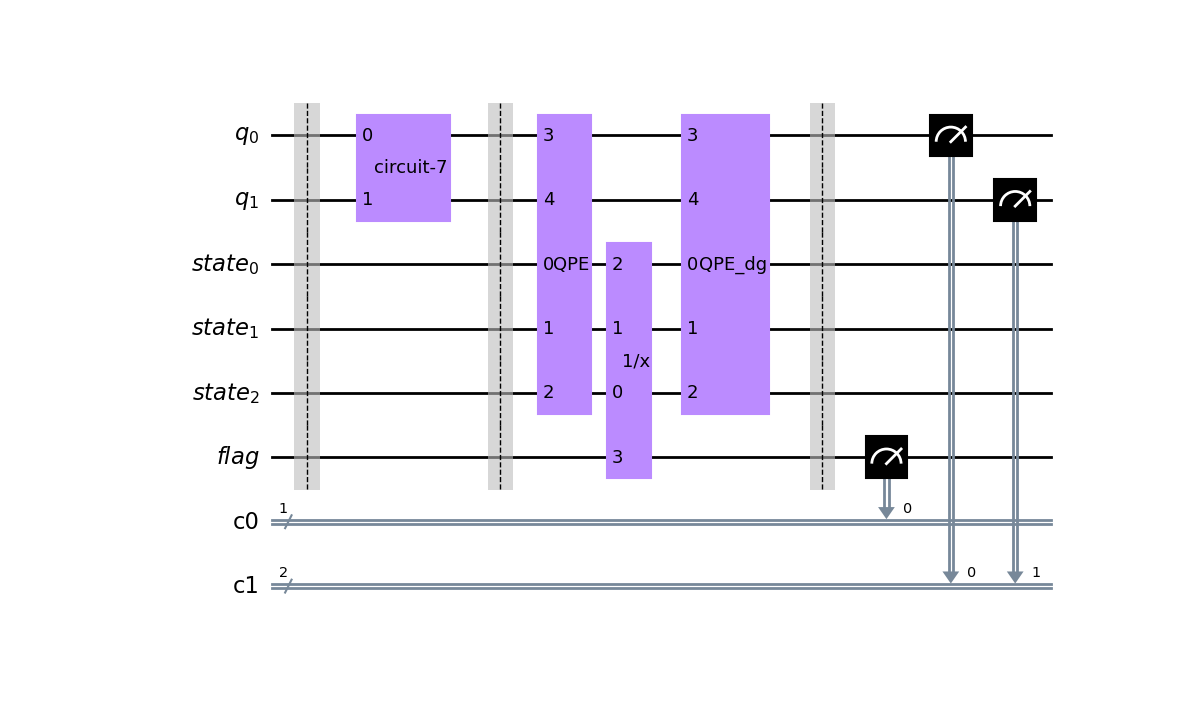
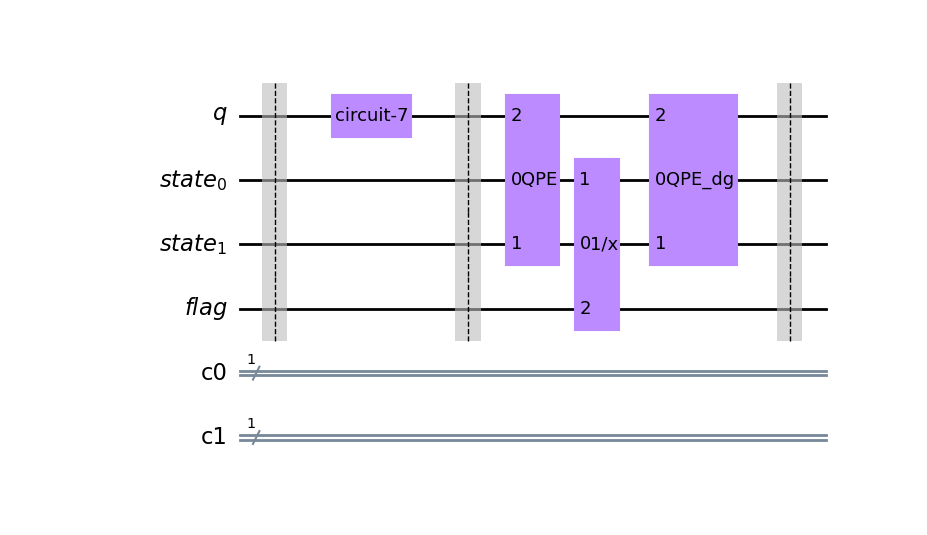
minor patch

Changed region(s): [[0.151, 0.1495, 0.9061, 0.8673]]

diff --git a/solver.py b/solver.py
@@ -9,15 +9,15 @@ from value_setter import value_setter
 
 def HHL_my(A, b, wrap = True, state_vector = True):
     #기초 회로 구성, 입력값: A(행렬), b(벡터), nl(사용하는 qubit의 수, 높을 수록 정확도가 높아짐), delta(evolution time t와 reciprocal 과정에서의 scaling을 결정), wrap(회로를 합쳐서 볼지 결정)
-    nl, evolution_time, delta = value_setter(A)
-    qc = circuit(A, b, nl, evolution_time, delta, wrap = wrap, state_vector = state_vector)
+    nl, evolution_time, delta, neg_vals = value_setter(A)
+    qc = circuit(A, b, nl, evolution_time, delta, neg_vals, wrap = wrap, state_vector = state_vector)
     if state_vector:
         naive_sv = Statevector(qc).data
         #qubit수를 확인
         num_qubit = qc.num_qubits
         #상태 벡터에서 필요한 상태만을 골라서 저장함
         #print(naive_sv)
-        naive_full_vector = np.array([naive_sv[2**(num_qubit-1)], naive_sv[2**(num_qubit-1)+1], naive_sv[2**(num_qubit-1)+2], naive_sv[2**(num_qubit-1)+3]])
+        naive_full_vector = np.array([naive_sv[2**(num_qubit-1)+i] for i in range(len(b))])
         #실수 부분만 취함
         naive_full_vector = np.real(naive_full_vector)
         #얻어진 벡터를 normalize하여 반환
@@ -52,7 +52,7 @@ def HHL_qiskit(A,b):
     #qubit수를 확인
     num_qubit = solution.state.num_qubits
     #상태 벡터에서 필요한 상태만을 골라서 저장함
-    naive_full_vector = np.array([naive_sv[2**(num_qubit-1)], naive_sv[2**(num_qubit-1)+1], naive_sv[2**(num_qubit-1)+2], naive_sv[2**(num_qubit-1)+3]])
+    naive_full_vector = np.array([naive_sv[2**(num_qubit-1)+i] for i in range(len(b))])
     #실수 부분만 취함
     naive_full_vector = np.real(naive_full_vector)
     #얻어진 벡터를 normalize하여 반환

diff --git a/circuit.py b/circuit.py
@@ -3,13 +3,13 @@ from qiskit import QuantumCircuit, QuantumRegister, ClassicalRegister
 from QPE import QPE, qpe_qiskit
 from rotation import rotation, Reciprocal
 from initialize import make_b_state
-def circuit(A, b, nl, evolution_time, delta, wrap = True, state_vector = True):
+def circuit(A, b, nl, evolution_time, delta, neg_vals, wrap = True, state_vector = True):
     #flag qubit의 갯수, 상태 준비가 확률적인 경우 늘릴 필요가 있음
     nf = 1
     #evolution time 정의, eigenvalue에 따라서 다르게 정의할 필요가 있음
     t = evolution_time
     #eigenvalue가 음수일 경우 -를 포함하는 qubit이 필요하고 이것을 boolean으로 표현
-    neg_vals = True
+    neg_vals = neg_vals
     #b벡터를 normalize된 양자 상태로 바꾸는 회로
     init_b, nb = make_b_state(b)
     #Quantum Phase Estimation을 시행하는 회로
@@ -45,7 +45,7 @@ def circuit(A, b, nl, evolution_time, delta, wrap = True, state_vector = True):
         qc.append(init_b, nb_rg[:])
         qc.barrier()
         qc.append(qc_qpe,nl_rg[:]+nb_rg[:])
-        qc.append(qc_rot,[nl_rg[2]]+[nl_rg[1]]+[nl_rg[0]]+nf_rg[:])
+        qc.append(qc_rot,[nl_rg[i] for i in reversed(range(nl))]+nf_rg[:])
         qc.append(qc_qpet,nl_rg[:]+nb_rg[:])
     else:
         #QPE, reciprocal, QPE inverse를 순서대로 추가, 내부의 gate들을 나누어서 표현

diff --git a/main.py b/main.py
@@ -55,13 +55,13 @@ def main(A, b, wrap = True, state_vector = True):
     #고전적인 결과와 비교하였을 때 모델에 대한 에러
     my_err = np.linalg.norm(classical_sol-my_sol)
     qiskit_err = np.linalg.norm(classical_sol-qiskit_sol)
-    print("my error:", my_err*100,"%")
-    print("qiskit error:", qiskit_err*100,"%")
+    print("my error:", my_err)
+    print("qiskit error:", qiskit_err)
 
 if __name__ == "__main__":
     #A, b입력
-    A = np.array([[1,2],[3,4]])
-    b = np.array([5,6])
+    A = np.array([[1,-1,1,3],[-1,3,-2,1],[1,-2,0,2],[3,1,2,1]])
+    b = np.array([2,1,3,2])
     #statevector를 사용하지 않고 측정을 통한 앙상블을 통해서 계산할 경우 음의 amplitude를 계산할 수 없어서 오류가 생긴다. 
     main(A,b, wrap = False, state_vector = True)
     

diff --git a/QPE.py b/QPE.py
@@ -50,7 +50,7 @@ def QPE(n_l, n_b, A,t):
     qc.barrier()
     #controlled unitary gate를 각각 2^l만큼 제곱한 gate를 걸어주어 행렬 A의 eigenvalue를 Fourier basis에서 표현한다.
     for l in range(n_l):
-        qc.append(CU.power(2**l), [nl_rg[l],nb_rg[0],nb_rg[1]]) 
+        qc.append(CU.power(2**l), [nl_rg[l]]+[nb_rg[i] for i in range(n_b)]) 
     qc.barrier()
     #QFT를 적용하여 eigenvalue를 nl register의 computational basis 상태로 표현
     qc = qc.compose(qft(n_l, inverse = True).reverse_bits(), nl_rg[:])

diff --git a/value_setter.py b/value_setter.py
@@ -59,7 +59,7 @@ def value_setter(A):
     음의 eigenvalue를 가지는 경우 추가적으로 2로 나누어준다.
     """
     evolution_time = 2 * np.pi * delta / lambda_min / (2**neg_vals)
-    return n_l, evolution_time, delta
+    return n_l, evolution_time, delta, neg_vals
 
 
 if __name__ == "__main__":
